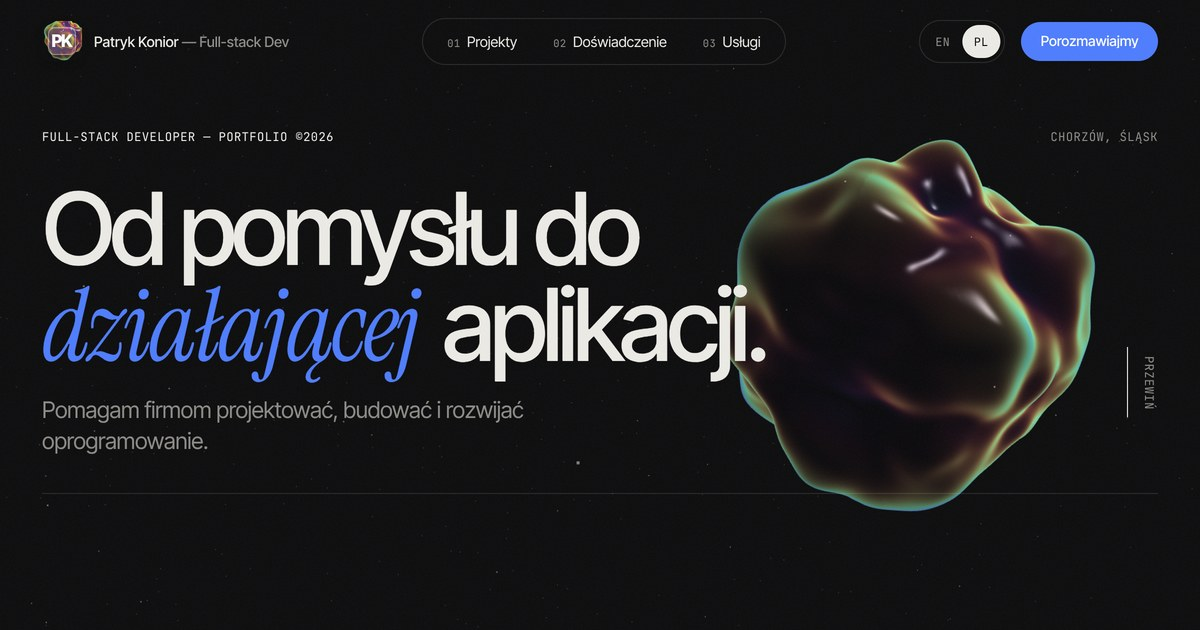
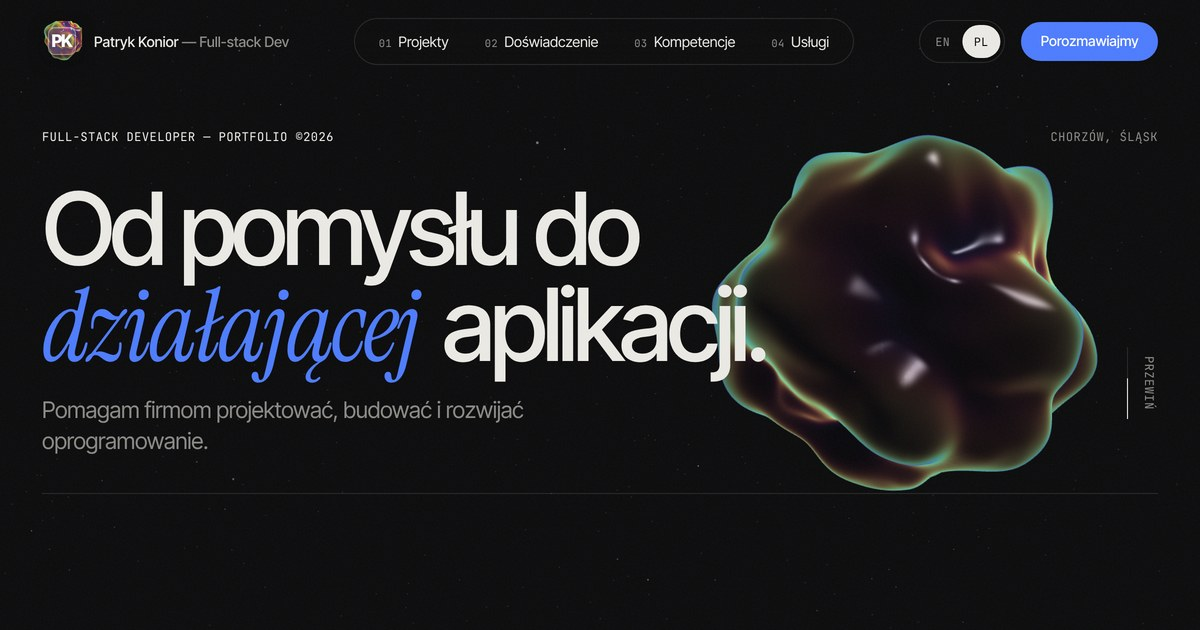
Fresh link-preview images with the current navbar (?v=7)

diff --git a/index.html b/index.html
@@ -18,7 +18,7 @@
     <meta property="og:site_name" content="Patryk Konior" />
     <meta property="og:title" content="Patryk Konior — Full-stack Developer" />
     <meta property="og:description" content="Web, mobile and desktop apps, real-time APIs and deployments with Elixir & Phoenix, Node.js, .NET, React and Svelte. Available for B2B projects." />
-    <meta property="og:image" content="/og-image-en.jpg?v=6" />
+    <meta property="og:image" content="/og-image-en.jpg?v=7" />
     <meta property="og:image:width" content="1200" />
     <meta property="og:image:height" content="630" />
     <meta property="og:image:alt" content="Patryk Konior — Full-stack Developer" />
@@ -27,7 +27,7 @@
     <meta name="twitter:card" content="summary_large_image" />
     <meta name="twitter:title" content="Patryk Konior — Full-stack Developer" />
     <meta name="twitter:description" content="Web, mobile and desktop apps, real-time APIs and deployments with Elixir & Phoenix, Node.js, .NET, React and Svelte." />
-    <meta name="twitter:image" content="/og-image-en.jpg?v=6" />
+    <meta name="twitter:image" content="/og-image-en.jpg?v=7" />
   </head>
   <body>
     <noscript>Patryk Konior — Full-stack Developer. Web apps, real-time APIs and deployments. Contact: patrykkonior4@gmail.com</noscript>

diff --git a/worker/index.js b/worker/index.js
@@ -115,7 +115,7 @@ const isMirror = (hostname) =>
 const PL = {
     description: "Patryk Konior, full-stack developer z Polski (B2B). Aplikacje webowe, mobilne i desktopowe, API czasu rzeczywistego i wdrożenia w Elixir & Phoenix, Node.js, .NET, React i Svelte.",
     ogDescription: "Aplikacje webowe, mobilne i desktopowe, API czasu rzeczywistego i wdrożenia w Elixir & Phoenix, Node.js, .NET, React i Svelte. Dostępny do projektów B2B.",
-    image: `${SITE}/og-image-pl.jpg?v=6`,
+    image: `${SITE}/og-image-pl.jpg?v=7`,
     url: `${SITE}/?lang=pl`,
 };
 
